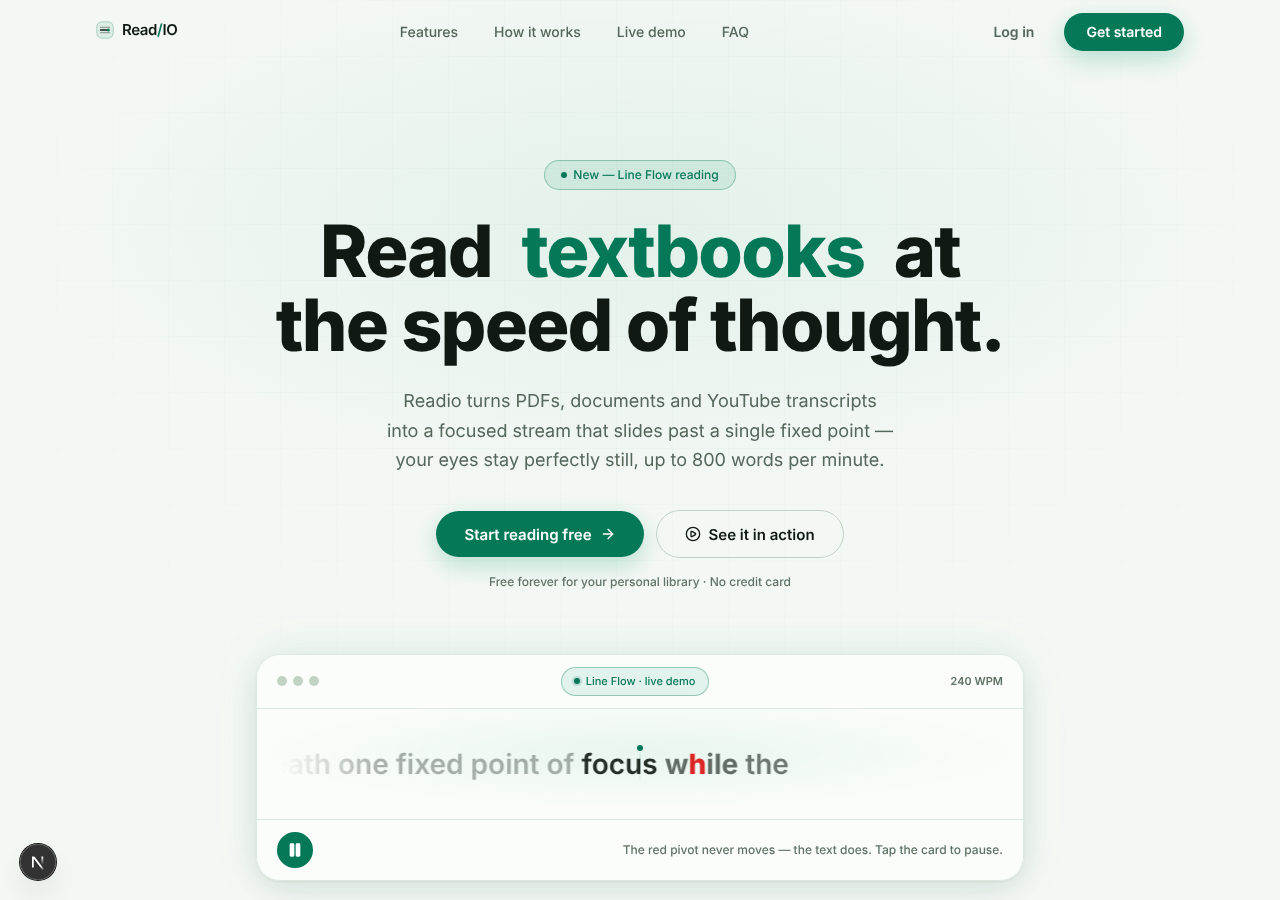
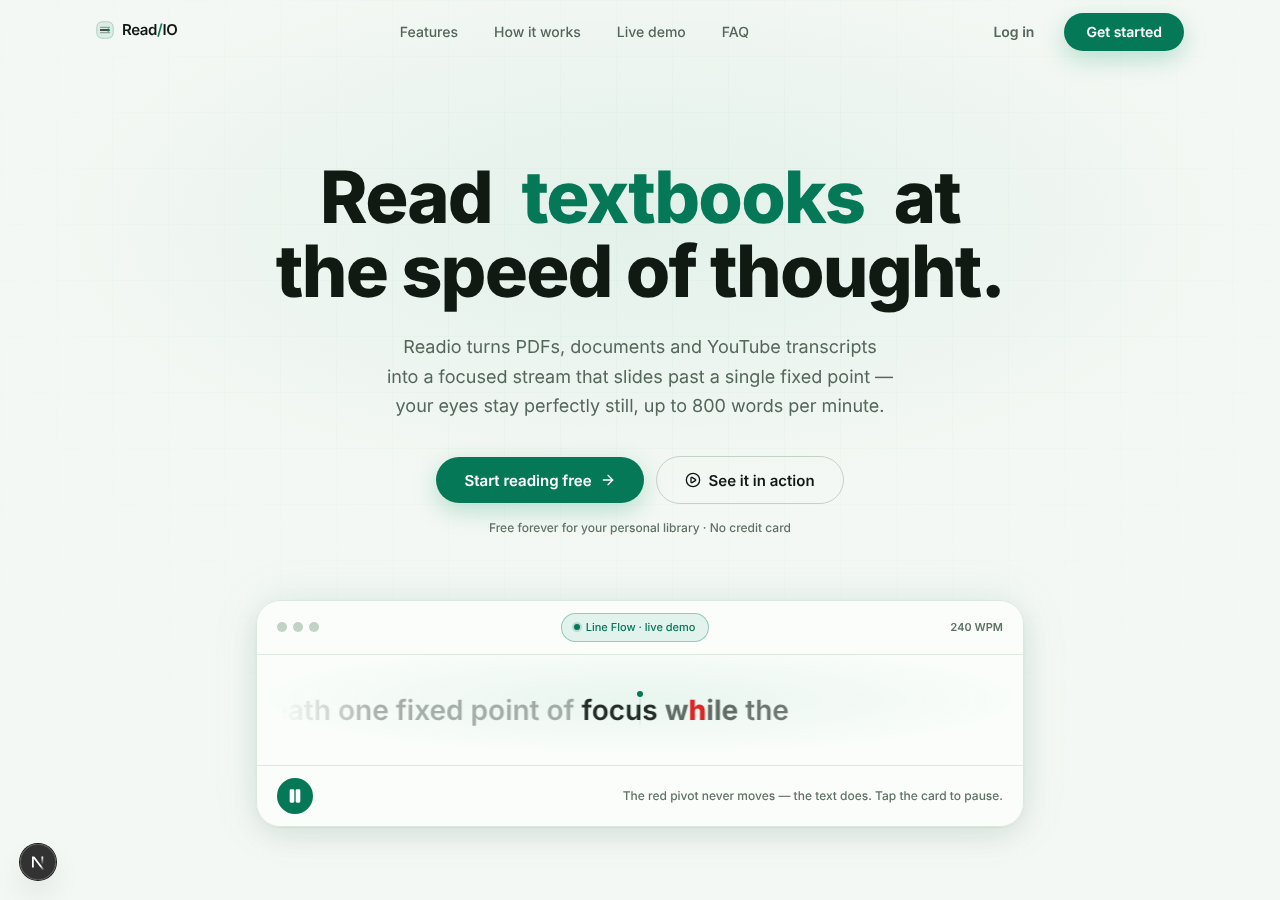
Landing: remove the 'New — Line Flow reading' hero badge
User request. The hero now opens directly on the headline. pill-accent
is still used by the hero demo card and settings form, so no dead CSS.
Gates: build clean, 123/123 tests, eslint 0, CLS 0.0000, no page
errors; landing screenshots refreshed.

diff --git a/web/src/app/page.tsx b/web/src/app/page.tsx
@@ -48,16 +48,6 @@ export default async function HomePage() {
         />
 
         <Reveal className="relative">
-          <span className="pill pill-accent mx-auto !px-4 !py-1.5 text-xs font-semibold">
-            <span
-              className="h-1.5 w-1.5 rounded-full"
-              style={{ background: "var(--color-accent)" }}
-            />
-            New — Line Flow reading
-          </span>
-        </Reveal>
-
-        <Reveal delay={80} className="relative mt-6">
           <h1 className="mx-auto max-w-4xl text-[2.6rem] font-extrabold leading-[1.03] tracking-tight text-balance sm:text-6xl lg:text-7xl">
             Read{" "}
             <RotatingWord

diff --git a/docs/redesign/AUDIT.md b/docs/redesign/AUDIT.md
@@ -103,6 +103,10 @@ User-requested reader fixes, all shipped on this branch:
    Measured: play at the viewport centre on both 375px and 1440px
    (0.0px off-centre; was +50px / −28px). Fullscreen toggle verified
    functionally (enters fullscreen, "Esc to exit" appears, no errors).
+5. **Hero "New — Line Flow reading" badge removed** from the landing
+   page (user request) — the hero now opens directly on the headline;
+   `pill-accent` stays in use by the hero demo card and settings form,
+   so no dead CSS.
 
 All gates re-run after these changes: production build 15/15, 123/123
 tests, eslint 0, CLS 0.0000 on every page × width, no console/hydration
